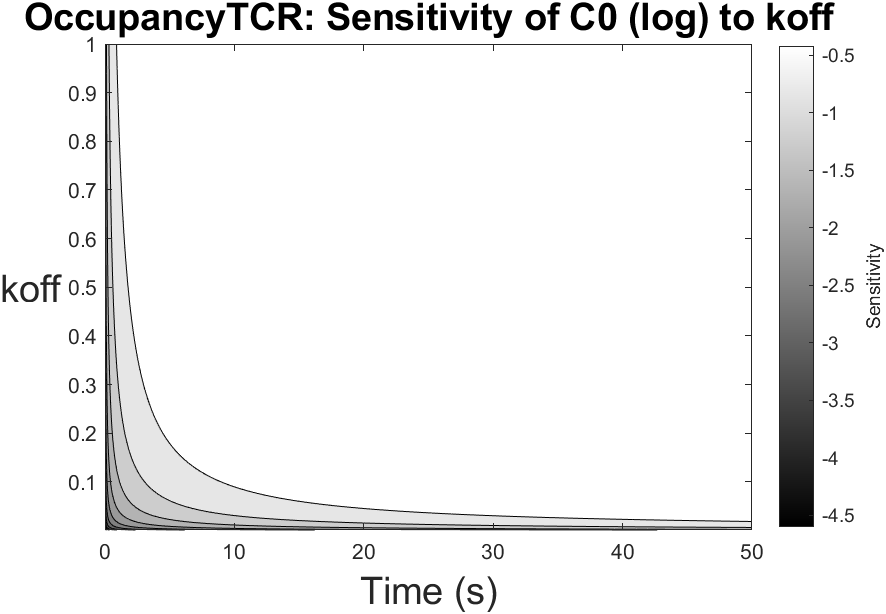
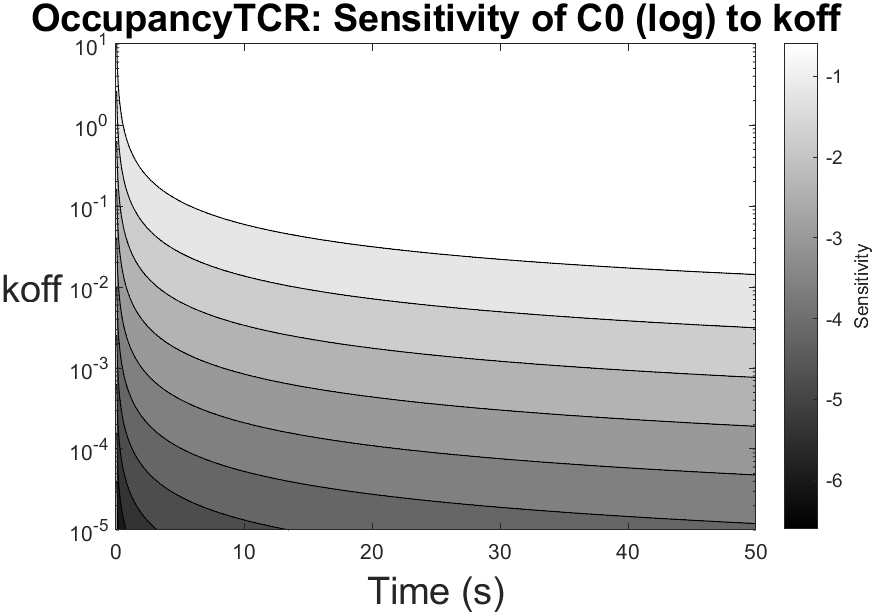
Add input signal support to OccupancyTCR
Extend OccupancyTCR to accept a time vector and input (tspan, u1) and apply inputSignal to the ODE (adds u to dx(1)). Wire the new signature through SensitivityOrganizer by creating an ode_function wrapper that calls the model with model.tspan and model.u1. Move tspan and u1 definitions into the model options, remove duplicate tspan assignment from refiningModelOptions, and update parameter-range defaults (param_range_mode -> 'default_orders', npoints 1000->200). Fix PlotResults to reference opts.LogX/opts.LogY. Toggle IC sensitivity off in options and update run_options text and example images to reflect the new ode function and changed sensitivity iteration count.

diff --git a/v.6/models/OccupancyTCR_options.m b/v.6/models/OccupancyTCR_options.m
@@ -22,14 +22,14 @@ model.t_end     = 50;
 %   'default_orders'  -> 3 orders of magnitude below and above nominal value
 %   'minmax_npoints'  -> define [min,max] and number of points
 %   'custom_step'     -> define [min,max] and step size
-model.param_range_mode = 'custom_step';
+model.param_range_mode = 'default_orders';
 
 % One value per parameter, in the same order as model.param_names.
 % 'default_orders' just use param_range_npoints.
 model.param_range_min    = [4e-6,  1e-3];
 model.param_range_max    = [2e-2,  1];
 model.param_range_step   = [1e-6,  1e-3]; % used only in 'custom_step'
-model.param_range_npoints = 1000;   % used only in 'default_orders' and 'minmax_npoints'
+model.param_range_npoints = 200;   % used only in 'default_orders' and 'minmax_npoints'
 
 % === INITIAL CONDITIONS RANGE VALUES ===
 opts.IC_to_analyze = 'C0';
@@ -46,6 +46,13 @@ model.IC_npoints  = 1000;   % used only in 'default_factor' and 'minmax_npoints'
 
 % Spacing for 'minmax_npoints': 'linear' or 'log'
 model.IC_spacing = 'linear';
+
+% Time interval
+model.tspan     = 0.0:model.step_size:model.t_end;
+
+% Defining inputs
+model.u1 = 2 * ones(size(model.tspan));
+
 
 [model, opts] = refiningModelOptions(model, opts);
 

diff --git a/v.6/src/SensitivityOrganizer.m b/v.6/src/SensitivityOrganizer.m
@@ -7,7 +7,7 @@ function SensitivityOrganizer()
     opts = options();
     
     % Create the name of the function handle type variable that is going to analyse
-    ode_function  = str2func(opts.modelname);
+    ode_base  = str2func(opts.modelname);
     
     % Run the corresponding options file
     options_script = [opts.modelname '_options'];
@@ -16,6 +16,9 @@ function SensitivityOrganizer()
     else
         error(['File ' options_script '.m not found']);
     end
+
+    % Intento input
+    ode_function = @(t,x,p) ode_base(t, x, p, model.tspan, model.u1);
     
     % Initialize the parallel processing pool if it is not active and if it is
     % required by the user

diff --git a/v.6/src/PlotResults.m b/v.6/src/PlotResults.m
@@ -85,11 +85,11 @@ function PlotResults(results_matrix, ode_function, param_values, x0, tspan, Mode
     title([modelname ': Sensitivity of ' state_names{state_index} ' to ' param_names{pI}], ...
         'FontSize', 18, 'FontWeight', 'bold');
     set(gca, 'YDir', 'normal');
-    if LogX
+    if opts.LogX
         set(gca, 'XScale', 'log');
     end
     
-    if LogY
+    if opts.LogY
         set(gca, 'YScale', 'log');
     end
     

diff --git a/v.6/options.m b/v.6/options.m
@@ -25,5 +25,5 @@ function opts = options()
     AdditionalVisualizationOpst
 
     % === SENSITIVITY TO INITIAL CONDITIONS ===
-    opts.ICsens = true;               % 'True' If you want to analyse the sensitivity to a given initial condition; 'False' if not.
+    opts.ICsens = false;               % 'True' If you want to analyse the sensitivity to a given initial condition; 'False' if not.
 end

diff --git a/v.6/models/OccupancyTCR.m b/v.6/models/OccupancyTCR.m
@@ -1,6 +1,9 @@
-function dx = OccupancyTCR(t, x, p)
+function dx = OccupancyTCR(t, x, p, tspan, u1)
     dx = zeros(3, 1);
-    dx(1) = p(1) * x(2) * x(3) - p(2) * x(1);  % C0
+
+    u = inputSignal(t, tspan, u1);
+
+    dx(1) = p(1) * x(2) * x(3) - p(2) * x(1) + u;  % C0
     dx(2) = -p(1) * x(2) * x(3) + p(2) * x(1); % P
     dx(3) = -p(1) * x(3) * x(3) + p(2) * x(1); % T
 end

diff --git a/v.6/src/refiningModelOptions.m b/v.6/src/refiningModelOptions.m
@@ -1,6 +1,4 @@
 function [model, opts] = refiningModelOptions(model, opts)
-
-    model.tspan     = 0.0:model.step_size:model.t_end;
     
     % CONVERT STATE NAME TO INDEX
     model.state_index = find(strcmpi(model.state_to_analyze, model.state_names), 1);
